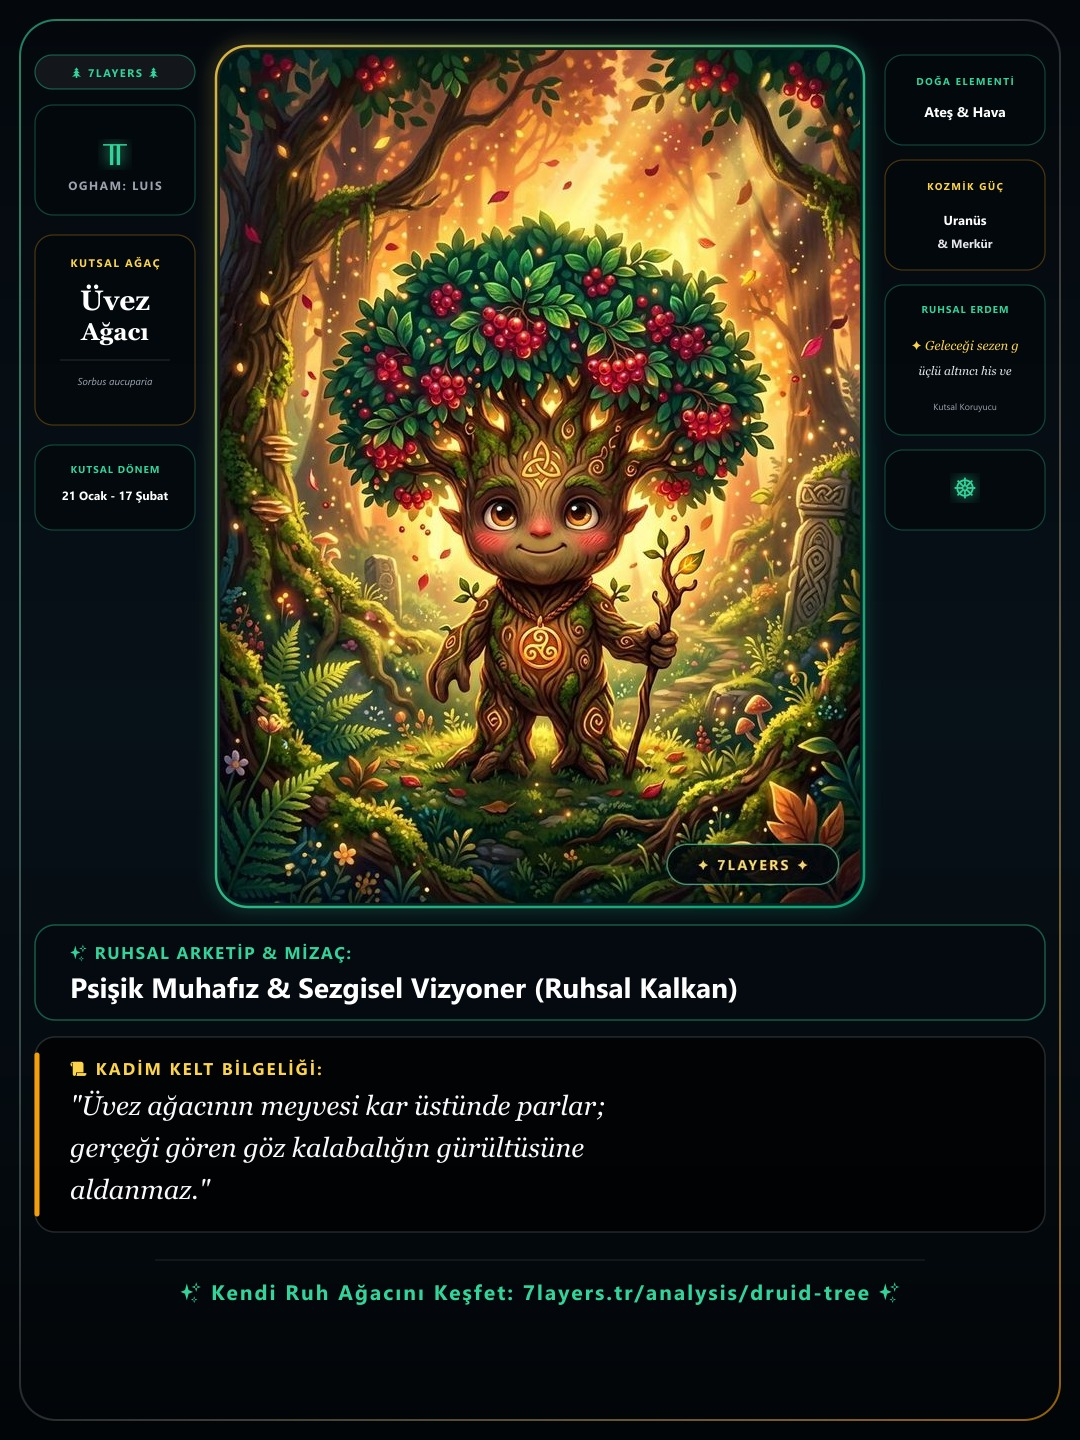
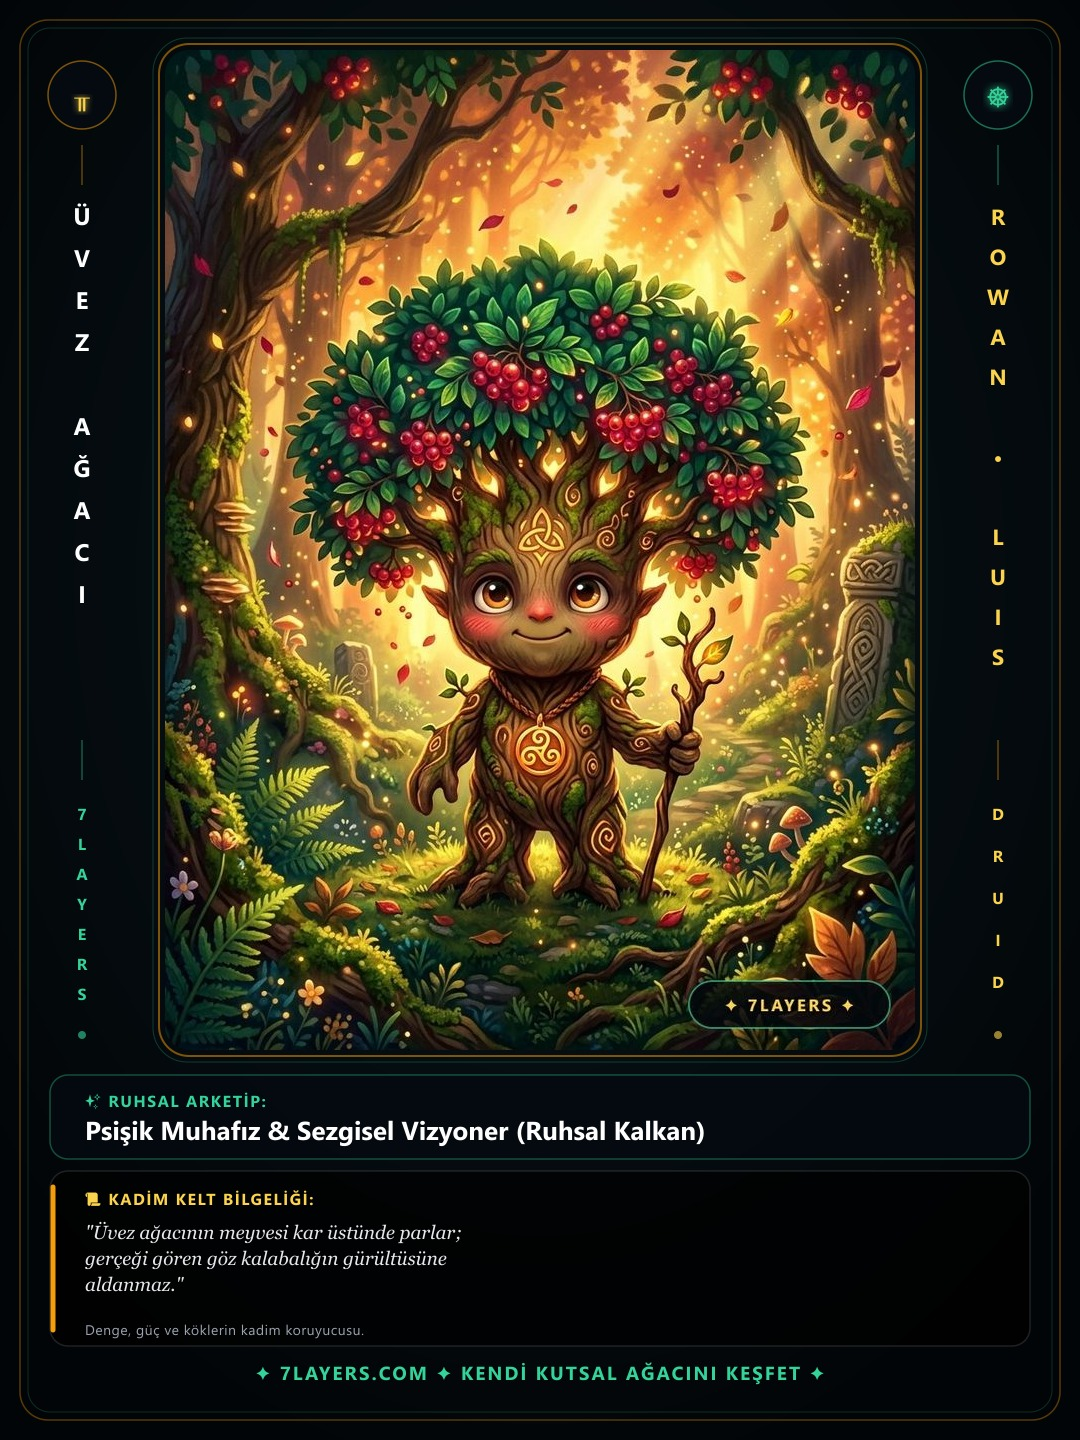
feat(druid): finalize clean vertical-typography tarot card layout for all 13 trees without date or side boxes

diff --git a/src/features/astrology/server/druidTreeCardService.ts b/src/features/astrology/server/druidTreeCardService.ts
@@ -4,10 +4,26 @@ import { DruidTree } from '../engine/DruidTreeEngine';
 
 const CARD_WIDTH = 1080;
 const CARD_HEIGHT = 1440;
-const PORTRAIT_WIDTH = 640;
-const PORTRAIT_HEIGHT = 853; // 3:4 aspect ratio
+const PORTRAIT_WIDTH = 750;
+const PORTRAIT_HEIGHT = 1000; // Exact 3:4 aspect ratio
 const PORTRAIT_TOP = 50;
-const PORTRAIT_LEFT = (CARD_WIDTH - PORTRAIT_WIDTH) / 2; // 220px
+const PORTRAIT_LEFT = (CARD_WIDTH - PORTRAIT_WIDTH) / 2; // 165px
+
+export const TREE_ENGLISH_NAMES: Record<string, string> = {
+  birch: 'BIRCH',
+  rowan: 'ROWAN',
+  ash: 'ASH',
+  alder: 'ALDER',
+  willow: 'WILLOW',
+  hawthorn: 'HAWTHORN',
+  oak: 'OAK',
+  holly: 'HOLLY',
+  hazel: 'HAZEL',
+  vine: 'VINE',
+  ivy: 'IVY',
+  reed: 'REED',
+  elder: 'ELDER'
+};
 
 function escapeXml(unsafe: string): string {
   return unsafe.replace(/[<>&'"]/g, (c) => {
@@ -22,7 +38,7 @@ function escapeXml(unsafe: string): string {
   });
 }
 
-function wrapText(text: string, maxCharsPerLine: number = 44): string[] {
+function wrapText(text: string, maxCharsPerLine: number = 48): string[] {
   const words = text.split(' ');
   const lines: string[] = [];
   let currentLine = '';
@@ -69,18 +85,36 @@ export function formatTurkishPossessive(name: string): string {
   return `${clean.toLocaleUpperCase('tr-TR')}'${suffix} KUTSAL AĞACI`;
 }
 
+/**
+ * Yan sütunlarda harfleri dikey alt alta dizen yardımcı fonksiyon
+ */
+function renderVerticalText(text: string, x: number, startY: number, maxHeight: number, maxFontSize: number, fill: string): string {
+  const chars = Array.from(text);
+  const count = chars.length;
+  if (count === 0) return '';
+
+  const stepY = Math.min(42, Math.floor(maxHeight / count));
+  const fontSize = Math.min(maxFontSize, Math.max(16, Math.floor(stepY * 0.65)));
+
+  return chars.map((char, i) => {
+    if (char === ' ') return ''; // Boşluk satır atlaması yaratır
+    const y = startY + i * stepY;
+    return `<text x="${x}" y="${y}" font-family="'Segoe UI', Roboto, sans-serif" font-size="${fontSize}" font-weight="800" fill="${fill}" text-anchor="middle">${escapeXml(char)}</text>`;
+  }).join('\n');
+}
+
 export async function renderDruidTreeCard(tree: DruidTree, rawImagePath: string, personName?: string): Promise<Buffer> {
   const rawBuffer = await fs.promises.readFile(rawImagePath);
 
-  // Resize raw image to exact 3:4 portrait (640x853)
+  // Resize raw image to exact 3:4 portrait (750x1000)
   const resizedPortrait = await sharp(rawBuffer)
-    .resize(PORTRAIT_WIDTH, PORTRAIT_HEIGHT, { fit: 'cover' })
+    .resize(PORTRAIT_WIDTH, PORTRAIT_HEIGHT, { fit: 'cover', position: 'center' })
     .toBuffer();
 
   // Create rounded mask for portrait image
   const maskSvg = `
     <svg width="${PORTRAIT_WIDTH}" height="${PORTRAIT_HEIGHT}">
-      <rect width="${PORTRAIT_WIDTH}" height="${PORTRAIT_HEIGHT}" rx="28" fill="#FFF"/>
+      <rect width="${PORTRAIT_WIDTH}" height="${PORTRAIT_HEIGHT}" rx="24" fill="#FFF"/>
     </svg>
   `;
   const roundedPortrait = await sharp(resizedPortrait)
@@ -88,188 +122,118 @@ export async function renderDruidTreeCard(tree: DruidTree, rawImagePath: string,
     .png()
     .toBuffer();
 
-  const proverbLines = wrapText(`"${tree.druidicProverb}"`, 44);
   const cleanName = personName ? personName.trim() : '';
-  const treeTopLabel = cleanName ? formatTurkishPossessive(cleanName) : 'KUTSAL AĞAÇ';
+  const titleLeft = cleanName ? formatTurkishPossessive(cleanName) : tree.name.toLocaleUpperCase('tr-TR');
+  const enName = TREE_ENGLISH_NAMES[tree.id] || tree.id.toUpperCase();
+  const titleRight = `${enName} • ${tree.oghamName.toUpperCase()}`;
+  const proverbLines = wrapText(`"${tree.druidicProverb}"`, 48);
+
   const footerText = cleanName 
-    ? `✨ ${escapeXml(cleanName)} İçin Özel Analiz • 7layers.tr/analysis/druid-tree ✨`
-    : `✨ Kendi Ruh Ağacını Keşfet: 7layers.tr/analysis/druid-tree ✨`;
+    ? `✦ 7LAYERS.COM ✦ ${cleanName.toLocaleUpperCase('tr-TR')} İÇİN ÖZEL ANALİZ ✦`
+    : `✦ 7LAYERS.COM ✦ KENDİ KUTSAL AĞACINI KEŞFET ✦`;
 
   const overlaySvg = `
     <svg width="${CARD_WIDTH}" height="${CARD_HEIGHT}" viewBox="0 0 ${CARD_WIDTH} ${CARD_HEIGHT}" xmlns="http://www.w3.org/2000/svg">
       <defs>
-        <linearGradient id="bgGrad" x1="0%" y1="0%" x2="0%" y2="100%">
-          <stop offset="0%" stop-color="#04080D"/>
-          <stop offset="50%" stop-color="#071118"/>
-          <stop offset="100%" stop-color="#020508"/>
-        </linearGradient>
-
-        <linearGradient id="goldGrad" x1="0%" y1="0%" x2="100%" y2="100%">
-          <stop offset="0%" stop-color="#FCD34D"/>
-          <stop offset="50%" stop-color="#34D399"/>
-          <stop offset="100%" stop-color="#10B981"/>
-        </linearGradient>
-
-        <linearGradient id="borderGrad" x1="0%" y1="0%" x2="100%" y2="100%">
-          <stop offset="0%" stop-color="#34D399" stop-opacity="0.6"/>
-          <stop offset="50%" stop-color="#FFFFFF" stop-opacity="0.15"/>
-          <stop offset="100%" stop-color="#F59E0B" stop-opacity="0.6"/>
-        </linearGradient>
-
-        <filter id="glow" x="-20%" y="-20%" width="140%" height="140%">
-          <feGaussianBlur stdDeviation="8" result="blur"/>
-          <feMerge>
-            <feMergeNode in="blur"/>
-            <feMergeNode in="SourceGraphic"/>
-          </feMerge>
+        <radialGradient id="bgGlow" cx="50%" cy="40%" r="65%">
+          <stop offset="0%" stop-color="#0B1A1E" stop-opacity="1"/>
+          <stop offset="60%" stop-color="#050C10" stop-opacity="1"/>
+          <stop offset="100%" stop-color="#020507" stop-opacity="1"/>
+        </radialGradient>
+        <filter id="goldGlow" x="-20%" y="-20%" width="140%" height="140%">
+          <feGaussianBlur stdDeviation="3" result="blur" />
+          <feComposite in="SourceGraphic" in2="blur" operator="over" />
+        </filter>
+        <filter id="emeraldGlow" x="-20%" y="-20%" width="140%" height="140%">
+          <feGaussianBlur stdDeviation="4" result="blur" />
+          <feComposite in="SourceGraphic" in2="blur" operator="over" />
         </filter>
       </defs>
 
       <!-- Background -->
-      <rect width="${CARD_WIDTH}" height="${CARD_HEIGHT}" fill="url(#bgGrad)"/>
+      <rect width="${CARD_WIDTH}" height="${CARD_HEIGHT}" fill="url(#bgGlow)"/>
 
-      <!-- Outer Luxury Border -->
-      <rect x="20" y="20" width="${CARD_WIDTH - 40}" height="${CARD_HEIGHT - 40}" rx="36" fill="none" stroke="url(#borderGrad)" stroke-width="2"/>
+      <!-- Outer Card Border -->
+      <rect x="20" y="20" width="${CARD_WIDTH - 40}" height="${CARD_HEIGHT - 40}" rx="28" fill="none" stroke="#F59E0B" stroke-opacity="0.35" stroke-width="1.5"/>
+      <rect x="28" y="28" width="${CARD_WIDTH - 56}" height="${CARD_HEIGHT - 56}" rx="22" fill="none" stroke="#34D399" stroke-opacity="0.2" stroke-width="1"/>
 
-      <!-- Left Column Details (X: 35, Width: 160) -->
-      <g transform="translate(35, 55)">
-        <!-- Top Pill -->
-        <rect x="0" y="0" width="160" height="34" rx="17" fill="#FFFFFF" fill-opacity="0.06" stroke="#34D399" stroke-opacity="0.4" stroke-width="1.2"/>
-        <text x="80" y="22" font-family="'Segoe UI', Roboto, sans-serif" font-size="11" font-weight="bold" fill="#34D399" text-anchor="middle" letter-spacing="1.5">
-          🌲 7LAYERS 🌲
+      <!-- Left Flank: Ogham Rune & Vertical Turkish Title (Center X: 82) -->
+      <g transform="translate(0, 0)">
+        <!-- Top Ogham Rune Emblem -->
+        <circle cx="82" cy="95" r="34" fill="#040A10" stroke="#F59E0B" stroke-opacity="0.5" stroke-width="1.5"/>
+        <text x="82" y="108" font-family="'Segoe UI', Roboto, sans-serif" font-size="34" fill="#FCD34D" text-anchor="middle" filter="url(#goldGlow)">
+          ${escapeXml(tree.oghamSymbol)}
         </text>
 
-        <!-- Vertical Ogham Rune Badge -->
-        <g transform="translate(0, 50)">
-          <rect x="0" y="0" width="160" height="110" rx="18" fill="#03080C" fill-opacity="0.8" stroke="#34D399" stroke-opacity="0.3" stroke-width="1.2"/>
-          <text x="80" y="55" font-family="'Georgia', serif" font-size="52" font-weight="bold" fill="#34D399" text-anchor="middle" filter="url(#glow)">
-            ${tree.oghamSymbol}
-          </text>
-          <text x="80" y="85" font-family="'Segoe UI', Roboto, sans-serif" font-size="12" font-weight="bold" fill="#9CA3AF" text-anchor="middle" letter-spacing="1.5">
-            OGHAM: ${tree.oghamName.toUpperCase()}
-          </text>
-        </g>
+        <!-- Vertical Line Accent -->
+        <line x1="82" y1="145" x2="82" y2="185" stroke="#F59E0B" stroke-opacity="0.4" stroke-width="1.5"/>
 
-        <!-- Tree Name & Title Block -->
-        <g transform="translate(0, 180)">
-          <rect x="0" y="0" width="160" height="190" rx="18" fill="#03080C" fill-opacity="0.8" stroke="#F59E0B" stroke-opacity="0.3" stroke-width="1.2"/>
-          <text x="80" y="32" font-family="'Segoe UI', Roboto, sans-serif" font-size="${cleanName ? 9.5 : 11}" font-weight="bold" fill="#FCD34D" text-anchor="middle" letter-spacing="1.5">
-            ${escapeXml(treeTopLabel)}
-          </text>
-          <text x="80" y="75" font-family="'Georgia', serif" font-size="28" font-weight="bold" fill="#FFFFFF" text-anchor="middle">
-            ${escapeXml(tree.name.replace(' Ağacı', ''))}
-          </text>
-          <text x="80" y="105" font-family="'Georgia', serif" font-size="24" font-weight="bold" fill="#FFFFFF" text-anchor="middle">
-            Ağacı
-          </text>
-          <line x1="25" y1="125" x2="135" y2="125" stroke="#FFFFFF" stroke-opacity="0.15" stroke-width="1"/>
-          <text x="80" y="150" font-family="'Segoe UI', Roboto, sans-serif" font-size="10" font-style="italic" fill="#9CA3AF" text-anchor="middle">
-            ${escapeXml(tree.botanicalName)}
-          </text>
-        </g>
+        <!-- Vertical Tree Name -->
+        ${renderVerticalText(titleLeft, 82, 225, 480, 24, '#FFFFFF')}
 
-        <!-- Vertical Period Badge -->
-        <g transform="translate(0, 390)">
-          <rect x="0" y="0" width="160" height="85" rx="18" fill="#03080C" fill-opacity="0.8" stroke="#34D399" stroke-opacity="0.3" stroke-width="1.2"/>
-          <text x="80" y="28" font-family="'Segoe UI', Roboto, sans-serif" font-size="10" font-weight="bold" fill="#34D399" text-anchor="middle" letter-spacing="1">
-            KUTSAL DÖNEM
-          </text>
-          <text x="80" y="55" font-family="'Segoe UI', Roboto, sans-serif" font-size="12" font-weight="bold" fill="#FFFFFF" text-anchor="middle">
-            ${escapeXml(tree.periods[0]?.label || '')}
-          </text>
-        </g>
+        <!-- Vertical 7LAYERS mark -->
+        <line x1="82" y1="740" x2="82" y2="780" stroke="#34D399" stroke-opacity="0.4" stroke-width="1.5"/>
+        ${renderVerticalText("7LAYERS", 82, 820, 210, 16, '#34D399')}
+        <circle cx="82" cy="1035" r="4" fill="#34D399" opacity="0.6"/>
       </g>
 
-      <!-- Center Portrait Image Glow Frame (x: 220, y: 50, w: 640, h: 853) -->
-      <rect x="${PORTRAIT_LEFT - 4}" y="${PORTRAIT_TOP - 4}" width="${PORTRAIT_WIDTH + 8}" height="${PORTRAIT_HEIGHT + 8}" rx="32" fill="none" stroke="url(#goldGrad)" stroke-width="2.5" opacity="0.85" filter="url(#glow)"/>
+      <!-- Central Image Golden Frame -->
+      <rect x="${PORTRAIT_LEFT - 6}" y="${PORTRAIT_TOP - 6}" width="${PORTRAIT_WIDTH + 12}" height="${PORTRAIT_HEIGHT + 12}" rx="30" fill="none" stroke="#F59E0B" stroke-opacity="0.5" stroke-width="2"/>
+      <rect x="${PORTRAIT_LEFT - 12}" y="${PORTRAIT_TOP - 12}" width="${PORTRAIT_WIDTH + 24}" height="${PORTRAIT_HEIGHT + 24}" rx="34" fill="none" stroke="#34D399" stroke-opacity="0.25" stroke-width="1"/>
 
-      <!-- Right Column Details (X: 885, Width: 160) -->
-      <g transform="translate(885, 55)">
-        <!-- Element Box -->
-        <g transform="translate(0, 0)">
-          <rect x="0" y="0" width="160" height="90" rx="18" fill="#03080C" fill-opacity="0.8" stroke="#34D399" stroke-opacity="0.3" stroke-width="1.2"/>
-          <text x="80" y="30" font-family="'Segoe UI', Roboto, sans-serif" font-size="10" font-weight="bold" fill="#34D399" text-anchor="middle" letter-spacing="1.5">
-            DOĞA ELEMENTİ
-          </text>
-          <text x="80" y="62" font-family="'Segoe UI', Roboto, sans-serif" font-size="14" font-weight="bold" fill="#FFFFFF" text-anchor="middle">
-            ${escapeXml(tree.element)}
-          </text>
-        </g>
+      <!-- Right Flank: Celtic Seal & Vertical English/Celtic Name (Center X: 998) -->
+      <g transform="translate(0, 0)">
+        <!-- Top Celtic Seal -->
+        <circle cx="998" cy="95" r="34" fill="#040A10" stroke="#34D399" stroke-opacity="0.5" stroke-width="1.5"/>
+        <text x="998" y="107" font-family="'Segoe UI', Roboto, sans-serif" font-size="28" fill="#34D399" text-anchor="middle" filter="url(#emeraldGlow)">
+          ☸
+        </text>
 
-        <!-- Ruler Planets Box -->
-        <g transform="translate(0, 105)">
-          <rect x="0" y="0" width="160" height="110" rx="18" fill="#03080C" fill-opacity="0.8" stroke="#F59E0B" stroke-opacity="0.3" stroke-width="1.2"/>
-          <text x="80" y="30" font-family="'Segoe UI', Roboto, sans-serif" font-size="10" font-weight="bold" fill="#FCD34D" text-anchor="middle" letter-spacing="1.5">
-            KOZMİK GÜÇ
-          </text>
-          <text x="80" y="65" font-family="'Segoe UI', Roboto, sans-serif" font-size="13" font-weight="bold" fill="#FFFFFF" text-anchor="middle">
-            ${escapeXml(tree.rulingPlanets.split('&')[0]?.trim() || tree.rulingPlanets)}
-          </text>
-          ${tree.rulingPlanets.includes('&') ? `
-            <text x="80" y="88" font-family="'Segoe UI', Roboto, sans-serif" font-size="12" font-weight="bold" fill="#E5E7EB" text-anchor="middle">
-              &amp; ${escapeXml(tree.rulingPlanets.split('&')[1]?.trim())}
-            </text>
-          ` : ''}
-        </g>
+        <!-- Vertical Line Accent -->
+        <line x1="998" y1="145" x2="998" y2="185" stroke="#34D399" stroke-opacity="0.4" stroke-width="1.5"/>
 
-        <!-- Light Trait Highlight -->
-        <g transform="translate(0, 230)">
-          <rect x="0" y="0" width="160" height="150" rx="18" fill="#03080C" fill-opacity="0.8" stroke="#34D399" stroke-opacity="0.3" stroke-width="1.2"/>
-          <text x="80" y="28" font-family="'Segoe UI', Roboto, sans-serif" font-size="10" font-weight="bold" fill="#34D399" text-anchor="middle" letter-spacing="1">
-            RUHSAL ERDEM
-          </text>
-          <text x="80" y="65" font-family="'Georgia', serif" font-size="13" font-style="italic" fill="#FCD34D" text-anchor="middle">
-            ✦ ${escapeXml(tree.lightTraits[0]?.slice(0, 16) || '')}
-          </text>
-          <text x="80" y="90" font-family="'Georgia', serif" font-size="12" font-style="italic" fill="#E5E7EB" text-anchor="middle">
-            ${escapeXml(tree.lightTraits[0]?.slice(16, 36) || '')}
-          </text>
-          <text x="80" y="125" font-family="'Segoe UI', Roboto, sans-serif" font-size="9" fill="#9CA3AF" text-anchor="middle">
-            Kutsal Koruyucu
-          </text>
-        </g>
+        <!-- Vertical English/Celtic Title -->
+        ${renderVerticalText(titleRight, 998, 225, 480, 22, '#FCD34D')}
 
-        <!-- Celtic Knot Seal -->
-        <g transform="translate(0, 395)">
-          <rect x="0" y="0" width="160" height="80" rx="18" fill="#03080C" fill-opacity="0.8" stroke="#34D399" stroke-opacity="0.3" stroke-width="1.2"/>
-          <text x="80" y="48" font-family="'Segoe UI', Roboto, sans-serif" font-size="28" fill="#34D399" text-anchor="middle" filter="url(#glow)">
-            ☸
-          </text>
-        </g>
+        <!-- Vertical DRUID mark -->
+        <line x1="998" y1="740" x2="998" y2="780" stroke="#F59E0B" stroke-opacity="0.4" stroke-width="1.5"/>
+        ${renderVerticalText("DRUID", 998, 820, 210, 16, '#FCD34D')}
+        <circle cx="998" cy="1035" r="4" fill="#FCD34D" opacity="0.6"/>
       </g>
 
-      <!-- Bottom Section (Y: 925 to 1400) -->
-      <g transform="translate(35, 925)">
+      <!-- Bottom Panel (Y: 1075 to 1400) -->
+      <g transform="translate(50, 1075)">
         <!-- Archetype Box -->
-        <rect x="0" y="0" width="${CARD_WIDTH - 70}" height="95" rx="20" fill="#040A10" fill-opacity="0.85" stroke="#34D399" stroke-opacity="0.4" stroke-width="1.5"/>
-        <text x="35" y="34" font-family="'Segoe UI', Roboto, sans-serif" font-size="17" font-weight="bold" fill="#34D399" letter-spacing="1.5">
-          ✨ RUHSAL ARKETİP &amp; MİZAÇ:
+        <rect x="0" y="0" width="${CARD_WIDTH - 100}" height="84" rx="18" fill="#040A10" fill-opacity="0.85" stroke="#34D399" stroke-opacity="0.35" stroke-width="1.5"/>
+        <text x="35" y="32" font-family="'Segoe UI', Roboto, sans-serif" font-size="16" font-weight="bold" fill="#34D399" letter-spacing="1.5">
+          ✨ RUHSAL ARKETİP:
         </text>
-        <text x="35" y="73" font-family="'Segoe UI', Roboto, sans-serif" font-size="28" font-weight="bold" fill="#FFFFFF">
+        <text x="35" y="65" font-family="'Segoe UI', Roboto, sans-serif" font-size="26" font-weight="bold" fill="#FFFFFF">
           ${escapeXml(tree.archetype)}
         </text>
 
         <!-- Proverb Box -->
-        <g transform="translate(0, 112)">
-          <rect x="0" y="0" width="${CARD_WIDTH - 70}" height="195" rx="20" fill="#000000" fill-opacity="0.75" stroke="#FFFFFF" stroke-opacity="0.14" stroke-width="1.5"/>
-          <line x1="2" y1="18" x2="2" y2="177" stroke="#F59E0B" stroke-width="5" stroke-linecap="round"/>
+        <g transform="translate(0, 96)">
+          <rect x="0" y="0" width="${CARD_WIDTH - 100}" height="175" rx="18" fill="#000000" fill-opacity="0.75" stroke="#FFFFFF" stroke-opacity="0.12" stroke-width="1.5"/>
+          <line x1="3" y1="16" x2="3" y2="159" stroke="#F59E0B" stroke-width="5" stroke-linecap="round"/>
 
-          <text x="35" y="38" font-family="'Segoe UI', Roboto, sans-serif" font-size="17" font-weight="700" fill="#FCD34D" letter-spacing="2">
+          <text x="35" y="34" font-family="'Segoe UI', Roboto, sans-serif" font-size="16" font-weight="700" fill="#FCD34D" letter-spacing="1.5">
             📜 KADİM KELT BİLGELİĞİ:
           </text>
 
-          <g transform="translate(35, 78)">
-            ${proverbLines.map((line, idx) => `
-              <text x="0" y="${idx * 42}" font-family="'Georgia', serif" font-size="27" font-style="italic" fill="#F8FAFC" font-weight="500">
-                ${escapeXml(line)}
-              </text>
-            `).join('')}
-          </g>
+          ${proverbLines.map((line, idx) => `
+            <text x="35" y="${68 + idx * 26}" font-family="'Georgia', serif" font-size="19" font-style="italic" fill="#E5E7EB">
+              ${escapeXml(line)}
+            </text>
+          `).join('')}
+
+          <text x="35" y="${68 + proverbLines.length * 26 + 18}" font-family="'Segoe UI', Roboto, sans-serif" font-size="14" fill="#9CA3AF" letter-spacing="0.5">
+            Denge, güç ve köklerin kadim koruyucusu.
+          </text>
         </g>
 
         <!-- Footer Brand Line -->
-        <line x1="120" y1="335" x2="${CARD_WIDTH - 190}" y2="335" stroke="#FFFFFF" stroke-opacity="0.12" stroke-width="1"/>
-        <text x="${(CARD_WIDTH - 70) / 2}" y="375" font-family="'Segoe UI', Roboto, sans-serif" font-size="21" font-weight="700" fill="#34D399" text-anchor="middle" letter-spacing="2">
+        <text x="${(CARD_WIDTH - 100) / 2}" y="305" font-family="'Segoe UI', Roboto, sans-serif" font-size="19" font-weight="700" fill="#34D399" text-anchor="middle" letter-spacing="2">
           ${footerText}
         </text>
       </g>
